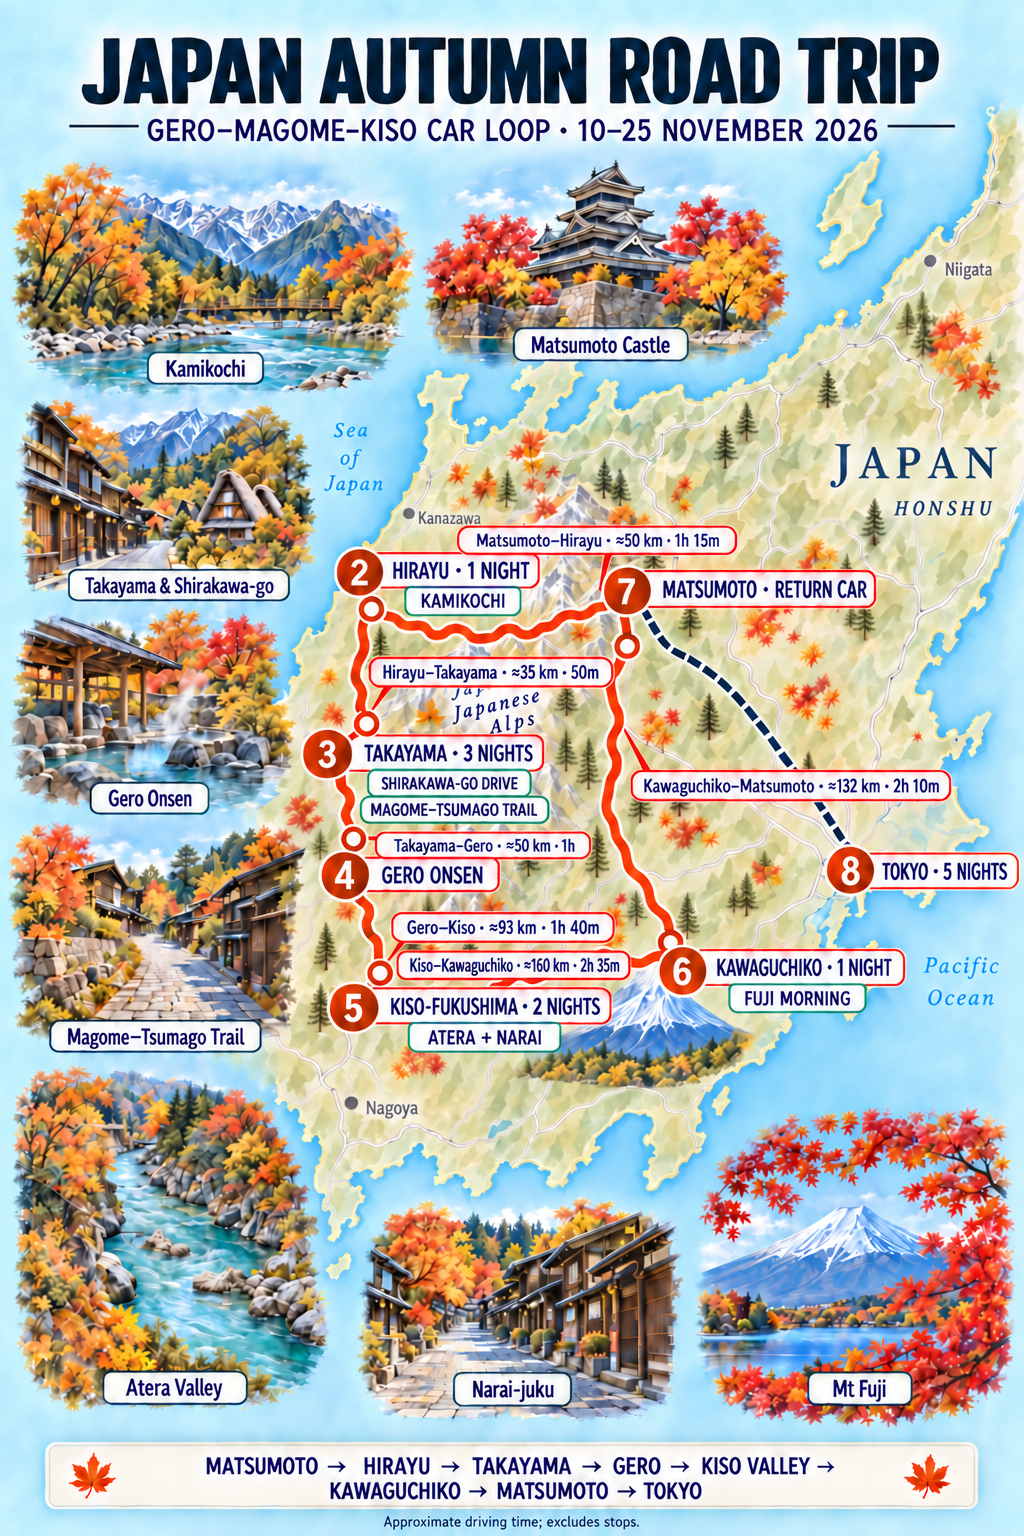
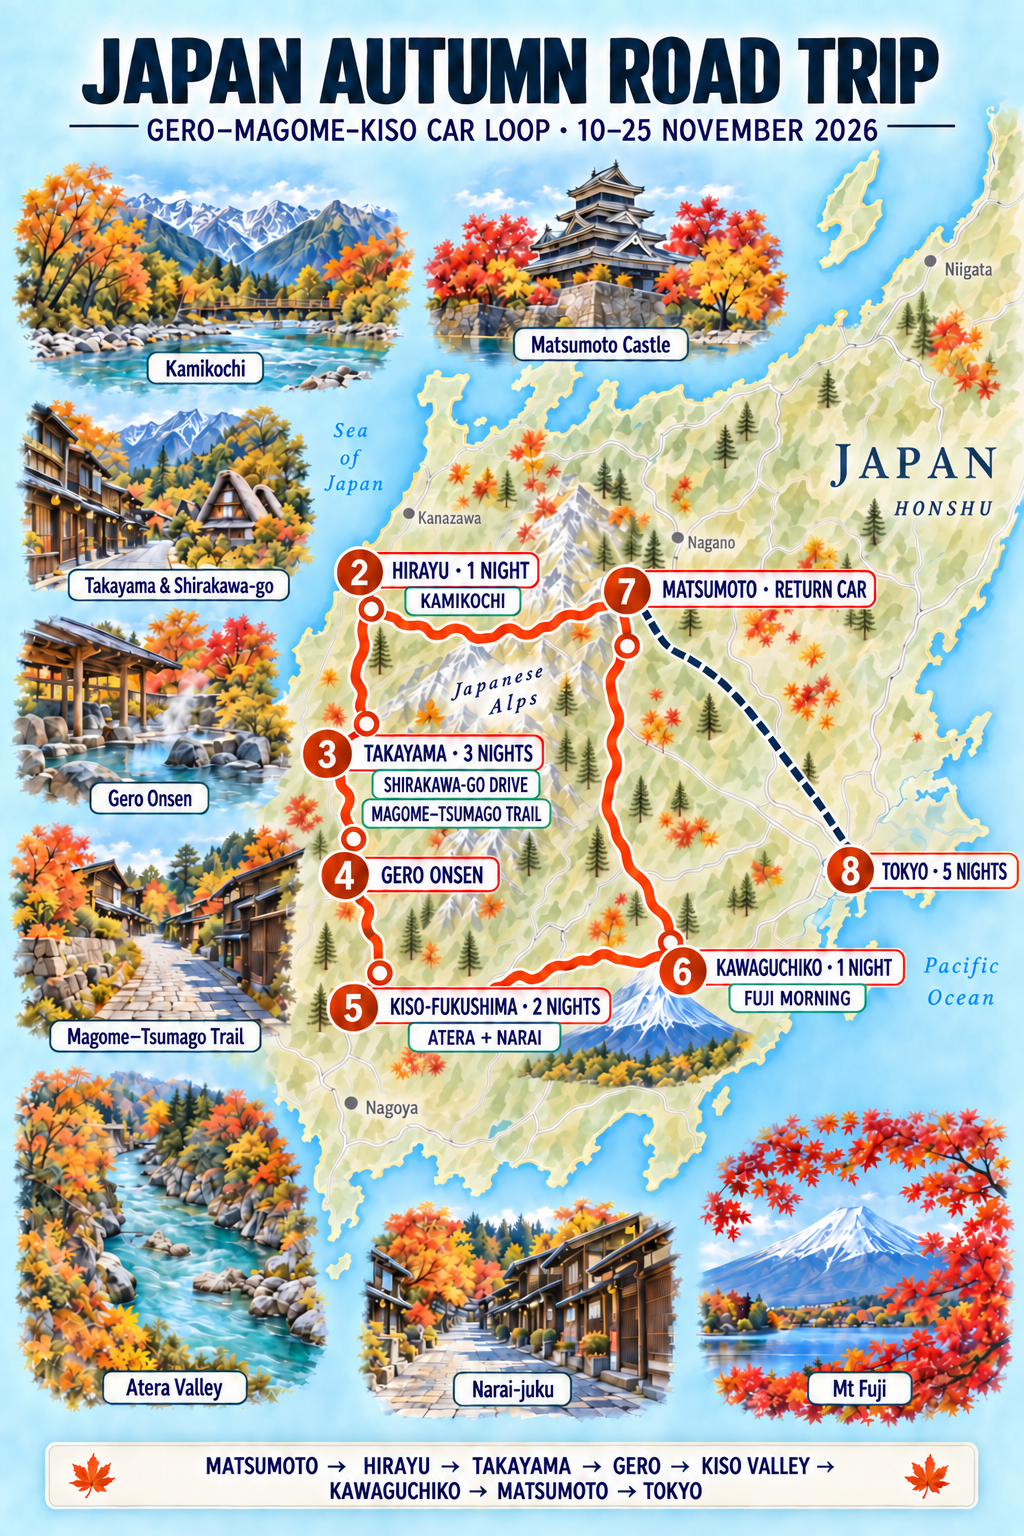
Simplify illustrated route map

diff --git a/index.html b/index.html
@@ -107,7 +107,7 @@
         <div class="version-content-grid final-route-content">
           <div class="route-map-gallery">
             <figure class="route-map-figure"><a href="assets/maps/japan-balanced-car-loop-map.png" target="_blank"><img src="assets/maps/japan-balanced-car-loop-map.webp" width="1126" height="1397" loading="lazy" decoding="async" alt="Gero–Magome–Kiso car route with approximate distances and driving times from Matsumoto through Hirayu, Takayama, Gero and Kiso-Fukushima to Kawaguchiko, returning to Matsumoto on 20 November before the train to Tokyo"></a><figcaption><span><b>Final car-loop map</b><small>Distances and no-stop driving estimates included</small></span><a href="assets/maps/japan-balanced-car-loop-map.png" target="_blank">Open full size ↗</a></figcaption></figure>
-            <figure class="route-map-figure"><a href="assets/maps/japan-balanced-car-loop-illustrated.png" target="_blank"><img src="assets/maps/japan-balanced-car-loop-illustrated.webp" width="1024" height="1536" loading="lazy" decoding="async" alt="Illustrated Gero–Magome–Kiso route with approximate driving distances and times, including Shirakawa-go and Magome–Tsumago day trips from Takayama"></a><figcaption><span><b>Autumn sights map</b><small>Takayama day trips and driving estimates included</small></span><a href="assets/maps/japan-balanced-car-loop-illustrated.png" target="_blank">Open full size ↗</a></figcaption></figure>
+            <figure class="route-map-figure"><a href="assets/maps/japan-balanced-car-loop-illustrated.png" target="_blank"><img src="assets/maps/japan-balanced-car-loop-illustrated.webp" width="1024" height="1536" loading="lazy" decoding="async" alt="Illustrated Gero–Magome–Kiso route highlighting Kamikochi, Shirakawa-go, the Magome–Tsumago trail, Gero, Kiso Valley and Mount Fuji"></a><figcaption><span><b>Autumn sights map</b><small>Takayama day trips, Kiso scenery and Fuji</small></span><a href="assets/maps/japan-balanced-car-loop-illustrated.png" target="_blank">Open full size ↗</a></figcaption></figure>
           </div>
           <div class="version-route-copy"><div class="route-flow compact-route" aria-label="Final road-trip route">
             <div class="route-stop city"><span>10–12 Nov</span><strong>Tokyo</strong><small>2 nights</small><em>Arrival</em></div>
